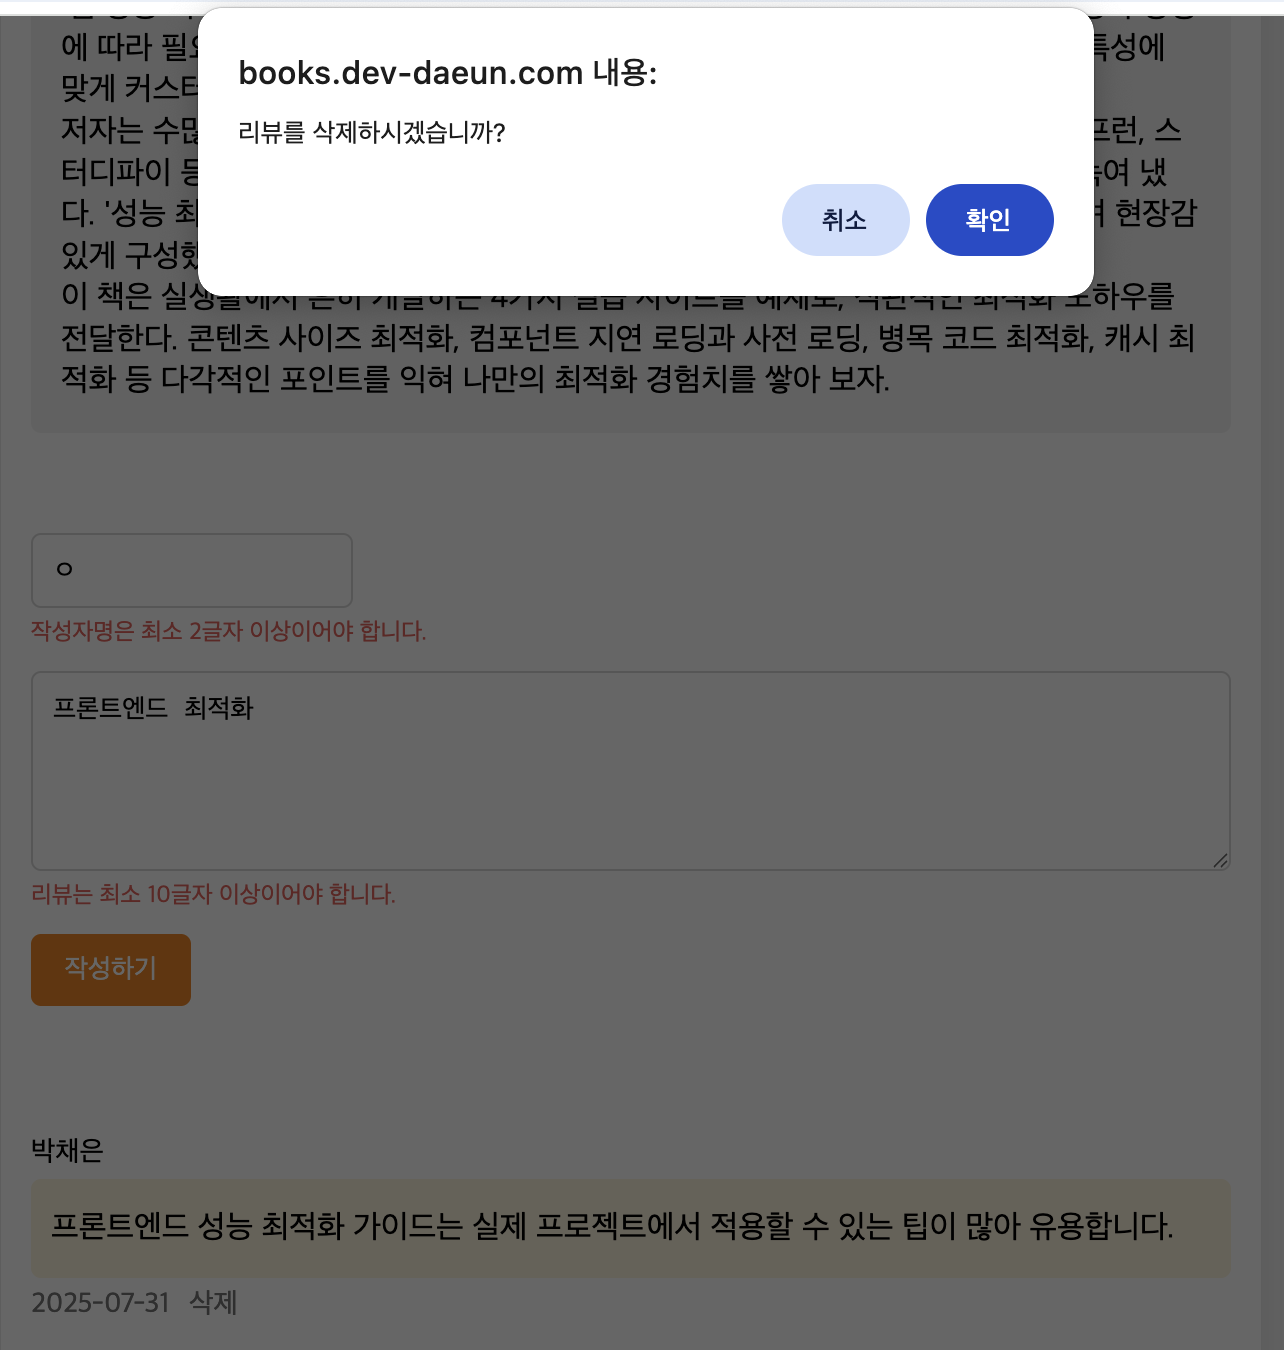
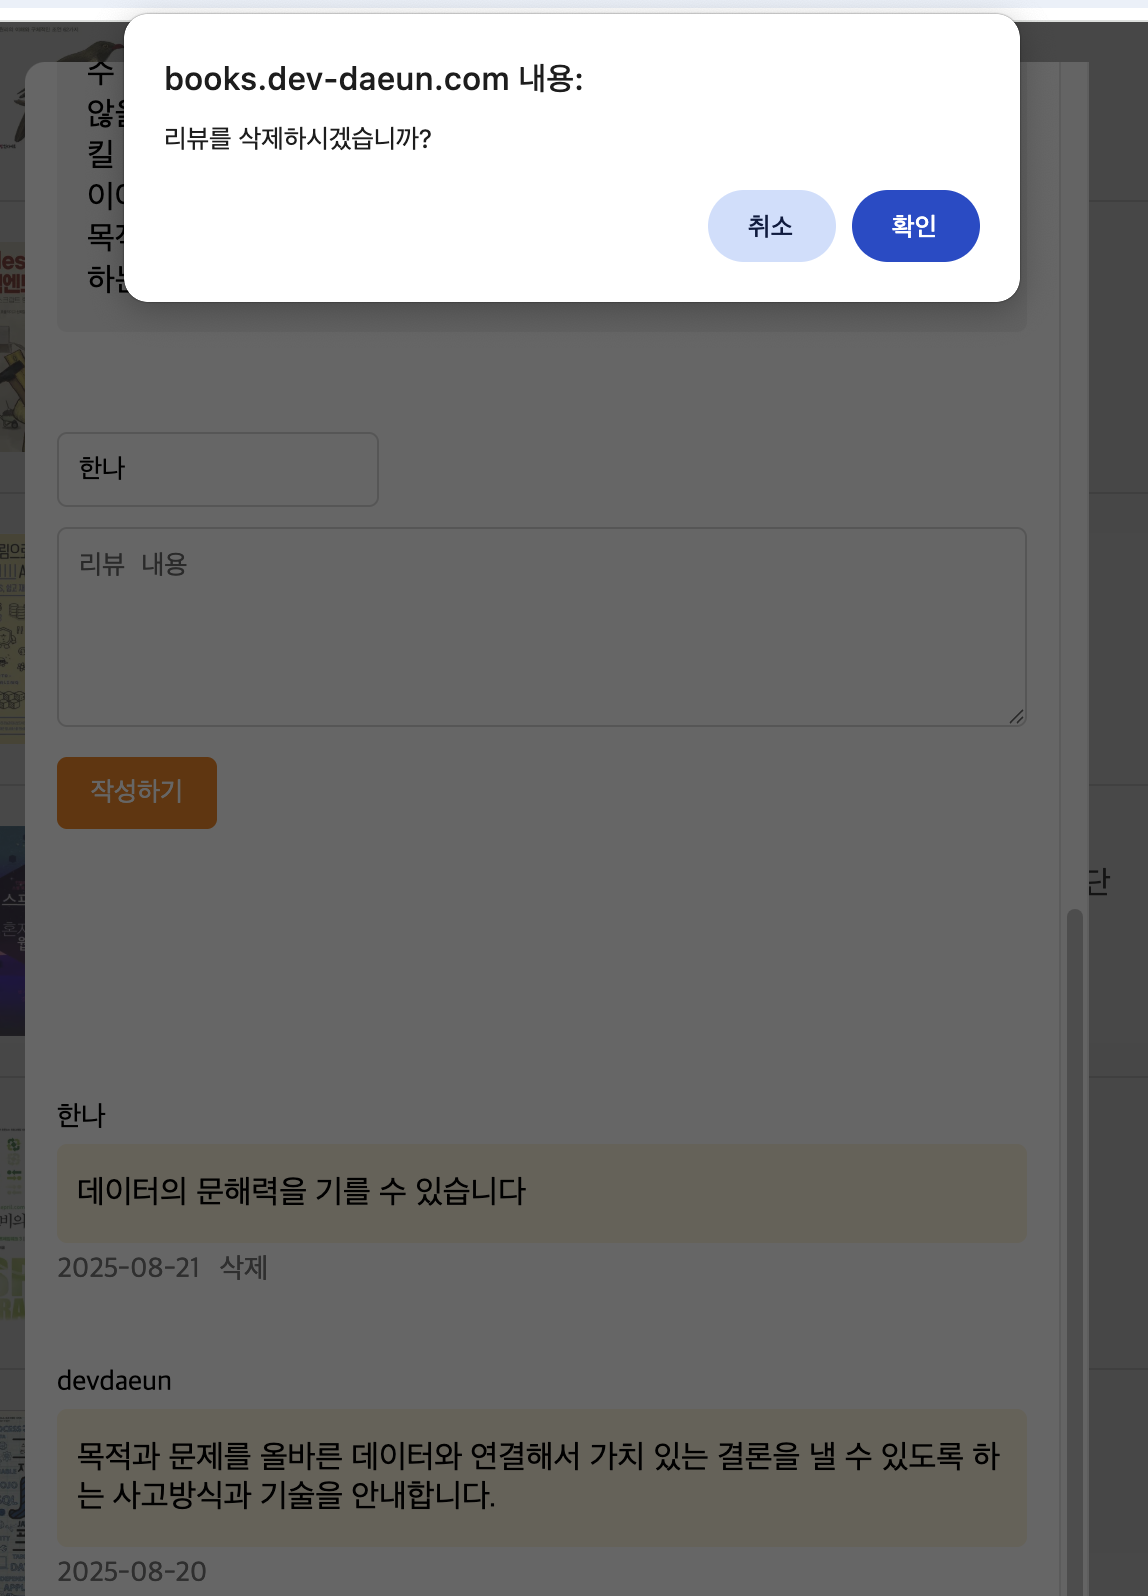
리드미 업데이트

diff --git a/README.md b/README.md
@@ -2,8 +2,10 @@
 
 
 ### 프로젝트 소개
-* 인프런 강의 [[한 입 크기로 잘라먹는 Next.js]](https://www.inflearn.com/course/%ED%95%9C%EC%9E%85-%ED%81%AC%EA%B8%B0-nextjs) 를 학습하며 만들었습니다
 * 도서 목록을 조회하고 리뷰를 등록/삭제 할 수 있습니다
+* 인프런 강의 [[한 입 크기로 잘라먹는 Next.js]](https://www.inflearn.com/course/%ED%95%9C%EC%9E%85-%ED%81%AC%EA%B8%B0-nextjs) 를 학습하며 만들었습니다
+* 강의에서 다루지 않은 데이터 유효성 검사는 [zod](https://zod.dev/) 를 활용했습니다
+* 강의에서 다루지 않은 인증 관련 기능은 [NextAuth.js](https://next-auth.js.org/) 를 활용했습니다
 
 
 ### 사용한 기술
@@ -11,26 +13,32 @@
 * next@15.4.5
 * react@19.1.0
 * zod@4.0.17
+* next-auth@4.24.11
 
 
 ### 주요 기능
-#### 1. 추천 도서 목록 조회
+#### 1. 회원가입/로그인
+![회원가입](./images/회원가입.png)
+![로그인](./images/로그인.png)
+
+#### 2. 추천 도서 목록 조회
 ![추천도서](./images/추천도서.png)
 
-#### 2. 전체 도서 목록 조회
+#### 3. 전체 도서 목록 조회
 ![모든도서](./images/모든도서.png)
 
-#### 3. 도서 검색
+#### 4. 도서 검색
 ![도서검색](./images/도서검색.png)
 
-#### 4. 도서 상세 정보(저자, 출판사, 설명) 조회
+#### 5. 도서 상세 정보(저자, 출판사, 설명) 조회
 ![도서상세](./images/도서상세.png)
 
-#### 5. 도서의 리뷰 목록 조회
+#### 6. 도서의 리뷰 목록 조회
 ![리뷰목록](./images/리뷰목록.png)
 
-#### 6. 도서 리뷰 등록
-![리뷰등록](./images/리뷰등록.png)
+#### 7. 도서 리뷰 작성
+![리뷰작성](./images/리뷰작성.png)
+![리뷰작성결과](./images/리뷰작성결과.png)
 
 
 #### 7. 도서 리뷰 삭제
@@ -39,5 +47,5 @@
 
 ### 향후 개선/적용해보고 싶은 것
 * 비즈니스 로직 담당하는 백엔드에서 응답 지연 시 모달 창에 suspense 적용
-* 사용자 인증
+* 소셜 로그인
 * 도서 목록 페이지네이션
